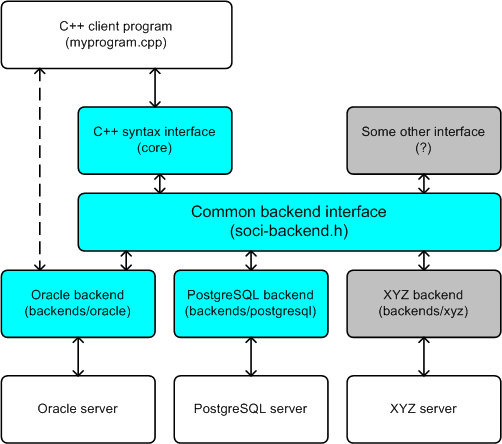
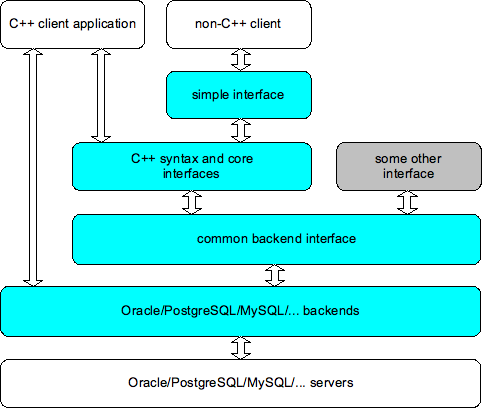
Update.

diff --git a/structure.html b/structure.html
@@ -27,6 +27,18 @@
 <img alt="Library structure diagram" src="structure.png" />
 </div>
 
+<p>The picture above presents the structure of the library, together with its
+clients and servers. The boxes filled with cyan represent components that
+are part of the library distribution.</p>
+
+<p>The SOCI library is extensible in the following ways:</p>
+<ul>
+  <li>More backends can be added to target various database servers.</li>
+  <li>More interfaces can be defined on top of common backend interface.</li>
+  <li>Other languages can use the <i>simple interface</i>, which was designed specifically
+  for the "C" calling convention to ensure easy binding.</li>
+</ul>
+
 <p>The core part of the library and the backend interface definition are
 placed in the <code>core</code> directory of the library distribution.
 The <code>soci-backend.h</code> file is an internal abstract
@@ -37,11 +49,6 @@ header(s) relevant to the given backend(s) (for example, <code>soci-oracle.h</co
 although with dynamic backend loading this can be avoided.
 It is possible for the same program to use many backends at the same
 time.</p>
-
-<p>The gray boxes above indicate that the SOCI library is extensible and
-that there are two aspects of this extensibility: more backends can be
-added, and more interfaces (possibly for other languages) can be
-defined to reuse the already existing backends.</p>
 
 <p>Everything in SOCI is
 declared in the namespace <code>soci</code>.
